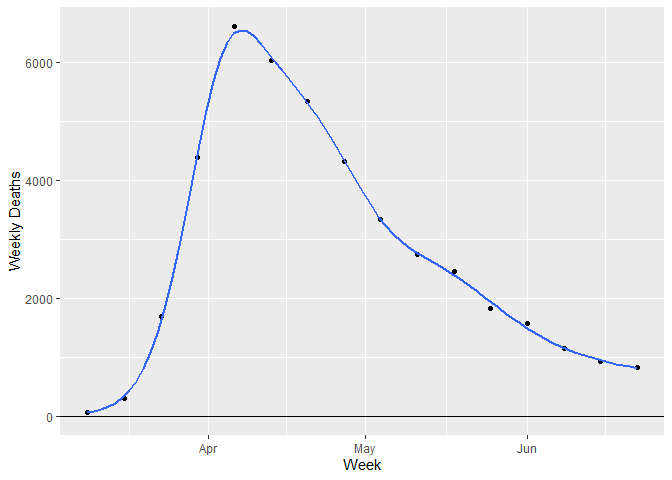
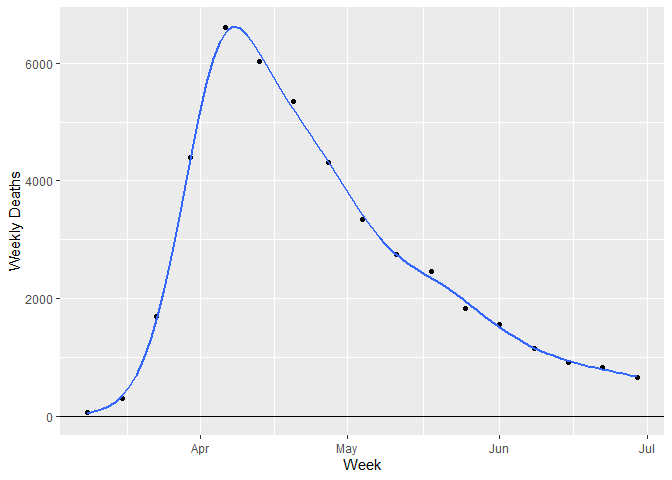
Re-ran

diff --git a/README.md b/README.md
@@ -122,34 +122,6 @@ UK Daily count of deaths in all settings
 
 <td style="text-align:left;">
 
-2020-06-28
-
-</td>
-
-<td style="text-align:left;">
-
-Sun
-
-</td>
-
-<td style="text-align:left;">
-
-2020-06-22
-
-</td>
-
-<td style="text-align:right;">
-
-25
-
-</td>
-
-</tr>
-
-<tr>
-
-<td style="text-align:left;">
-
 2020-06-29
 
 </td>
@@ -314,6 +286,34 @@ Sat
 
 </tr>
 
+<tr>
+
+<td style="text-align:left;">
+
+2020-07-05
+
+</td>
+
+<td style="text-align:left;">
+
+Sun
+
+</td>
+
+<td style="text-align:left;">
+
+2020-06-29
+
+</td>
+
+<td style="text-align:right;">
+
+16
+
+</td>
+
+</tr>
+
 </tbody>
 
 </table>
@@ -417,28 +417,6 @@ Days
 <td style="text-align:right;">
 
 4
-
-</td>
-
-</tr>
-
-<tr>
-
-<td style="text-align:left;">
-
-2020-06-29
-
-</td>
-
-<td style="text-align:right;">
-
-646
-
-</td>
-
-<td style="text-align:right;">
-
-6
 
 </td>
 
